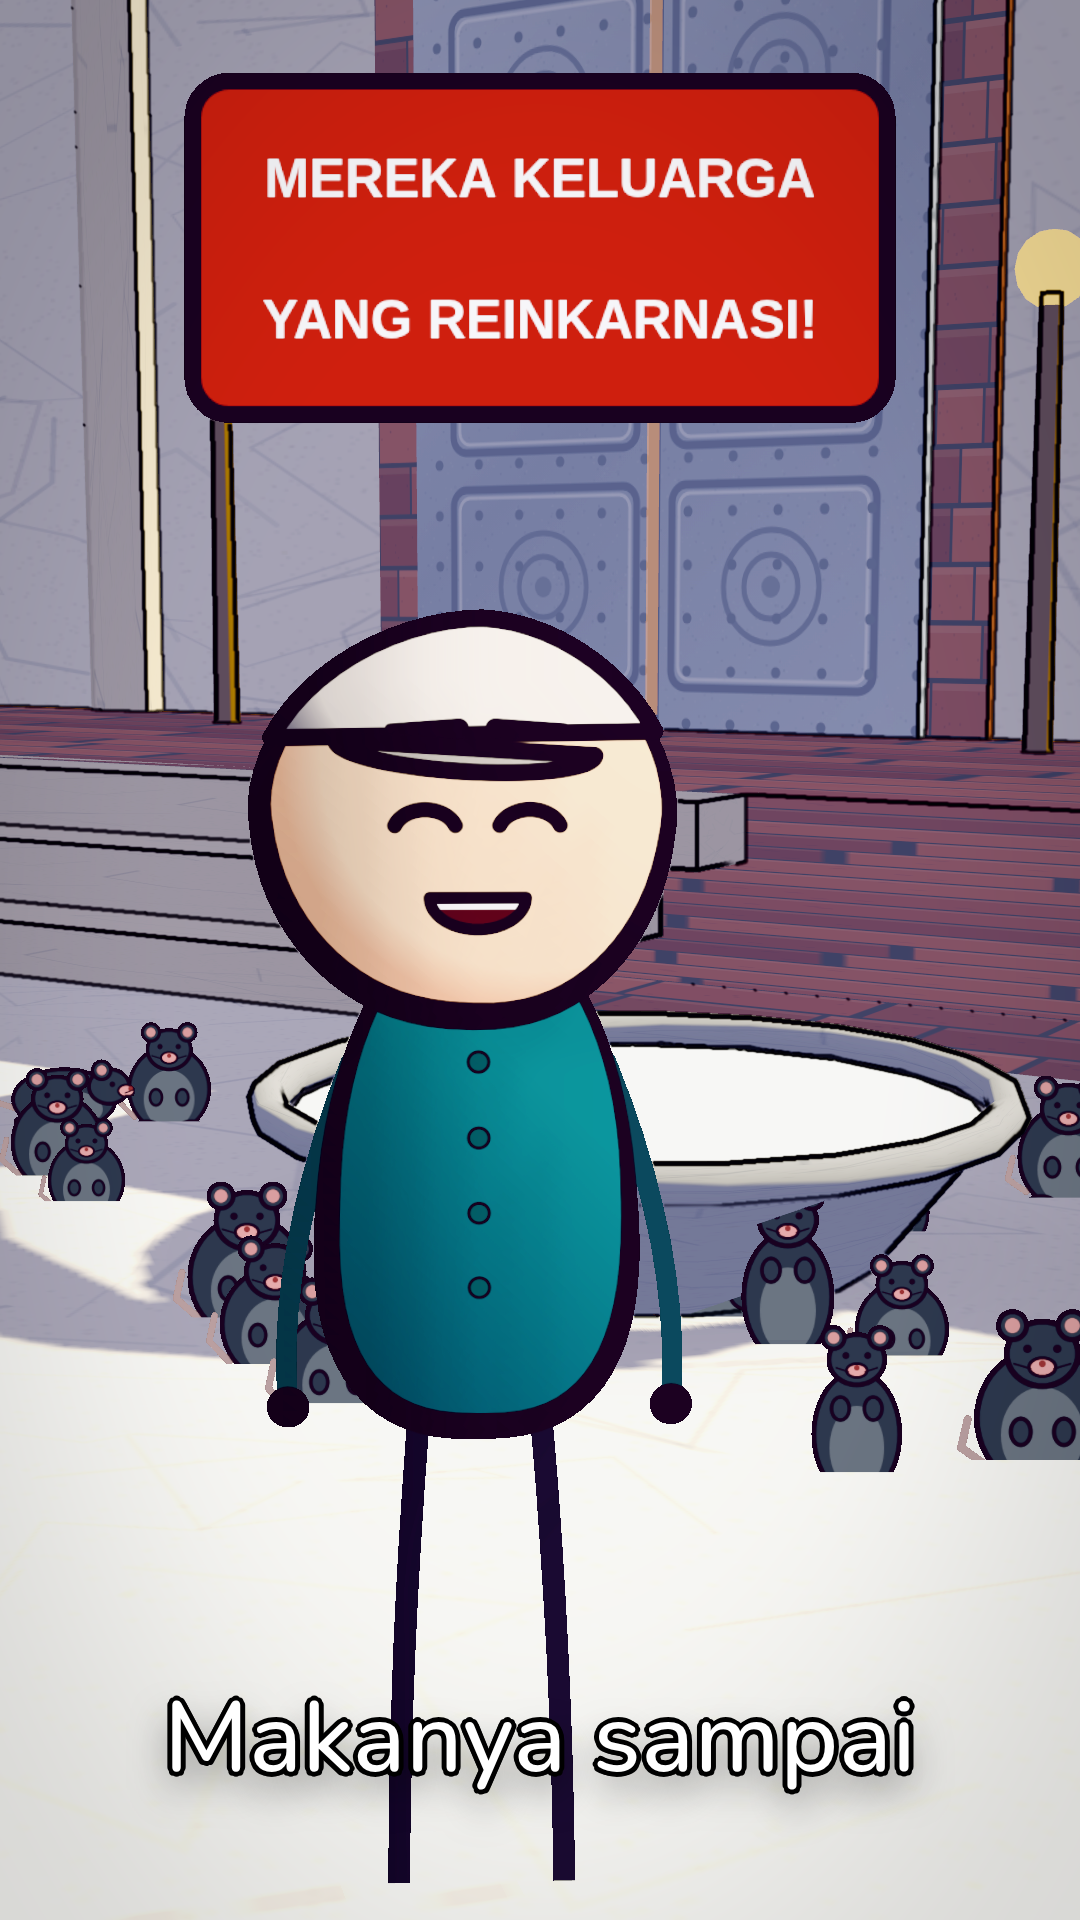
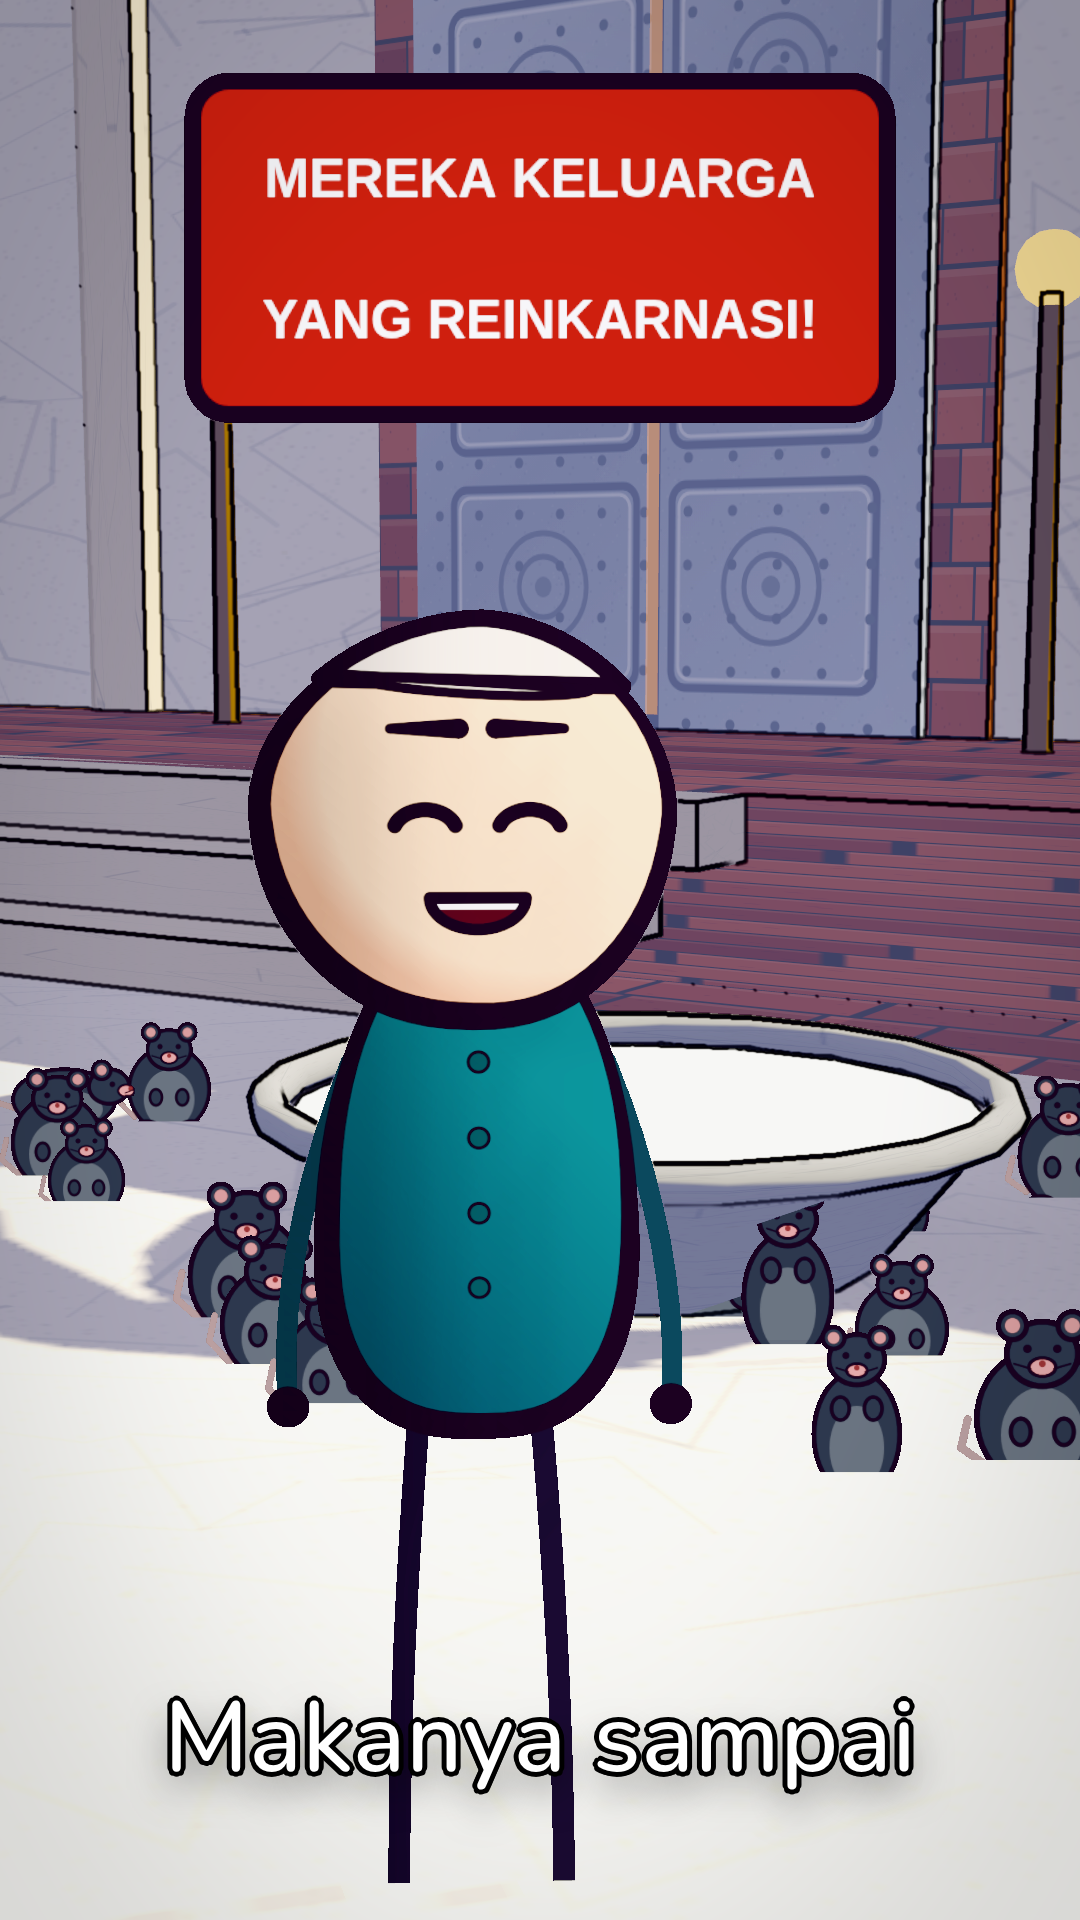
projects/kuil-tikus: sync for repo render 20261121-234418

Changed region(s): [[0.2444, 0.3438, 0.6111, 0.4062]]

diff --git a/projects/kuil-tikus/src/videos/tikus/toon.ts b/projects/kuil-tikus/src/videos/tikus/toon.ts
@@ -314,7 +314,7 @@ const faceFront = (p: Pen, cx: number, cy: number, W: number, expr: Expr, facing
     const kind = eyeKind(F.eye[(facing ? side === facing : side > 0) ? 1 : 0], lid);
     eye(p, kind, x, ey, u, side, look, skin);
     const [dI, dO] = F.brow, by = ey - (brim ? 17 : 20) * u;
-    if (kind === "shock" || kind === "shockHalf") p.arc(x, by - 6 * u, 9 * u, 3 * u, 200, 340, 4 * u);
+    if (kind === "shock" || kind === "shockHalf") p.arc(x, by - 4 * u, 9 * u, 3 * u, 200, 340, 4 * u);
     else taper(p, [x - side * 8.5 * u, by + dI * u], [x + side * 8.5 * u, by + dO * u], 5 * u, 2.5 * u);
   }
   const mx = cx + 8 * u * facing, my = cy + 20 * u;
@@ -330,7 +330,7 @@ const faceSide = (p: Pen, hx: number, hy: number, W: number, expr: Expr, lid: nu
   const kind = eyeKind(F.eye[1], lid);
   eye(p, kind, ex, ey, u, 1, 0.6, skin);
   const by = ey - (brim ? 17 : 20) * u, [dI, dO] = F.brow;
-  if (kind === "shock" || kind === "shockHalf") p.arc(ex, by - 6 * u, 9 * u, 3 * u, 200, 340, 4 * u);
+  if (kind === "shock" || kind === "shockHalf") p.arc(ex, by - 4 * u, 9 * u, 3 * u, 200, 340, 4 * u);
   else taper(p, [ex + 8 * u, by + dI * u], [ex - 7 * u, by - u + dO * u], 5 * u, 2.5 * u);
   p.stroke([[hx + 44 * u, hy + 4 * u], [hx + 47.5 * u, hy + 9 * u], [hx + 43 * u, hy + 10 * u]], 3 * u);
   mouth(p, F.mouth, hx + 33 * u, hy + 21 * u, u, 0.62);
@@ -378,7 +378,10 @@ const hatOn = (p: Pen, o: Outfit, hp: P2[], H: Blob, cx: number, hc: number, lig
       p.ell(tx, ty, 7 * u, 7 * u, "#2b7a4b", 2.5 * u); // green tuft
     }
   } else if (o.hat === "cap" || o.hat === "hair") {
-    const cut = crown + (o.hat === "cap" ? 0.3 : 0.42) * HH;
+    // hairline: the cap/hair bottom edge must stay ON TOP of the head, clearly above the brow line
+    // (brows sit 0.287 * HH below the crown; the old 0.30 / 0.42 cuts dropped the edge onto/through
+    // the brows and, with the wide peak lens, read as a black blindfold band across the forehead)
+    const cut = crown + 0.18 * HH;
     const keep = (x: number, y: number) => y < cut || (side && o.hat === "hair" && x < cx - 6 * u && y < hc + 0.42 * H.b);
     // start the arc at the first kept point after a dropped one, so the kept run is contiguous and the cut closes it
     const n = hp.length, startIdx = Math.max(0, hp.findIndex(([x, y], i) => keep(x, y) && !keep(hp[(i + n - 1) % n][0], hp[(i + n - 1) % n][1])));
@@ -394,14 +397,16 @@ const hatOn = (p: Pen, o: Outfit, hp: P2[], H: Blob, cx: number, hc: number, lig
     p.poly(arc, null, ow);
     if (o.hat === "hair") {
       const s = side ? -1 : facing || 1;
-      p.stroke([[cx + s * 10 * u, cut - 30 * u], [cx + s * 2 * u, cut - 12 * u]], 1.2 * u);
+      p.stroke([[cx + s * 8 * u, cut - 14 * u], [cx + s * 2 * u, cut - 4 * u]], 1.2 * u);
     }
     if (o.hat === "cap") {
       const deg = (a * 180) / Math.PI;
       if (side) p.poly(R([[cx + 40 * u, cut - 2 * u], [cx + 74 * u, cut + 4 * u], [cx + 40 * u, cut + 6 * u]]), shade(col, 0.8), ow);
       else {
-        const s = facing || (rnd(seed, 21) < 0.5 ? -1 : 1), [px, py] = R([[cx + s * 4 * u, cut + 1.5 * u]])[0];
-        p.ell(px, py, 32 * u, 0.06 * HH, shade(col, 0.8), ow, 0, 180, deg);
+        const s = facing || (rnd(seed, 21) < 0.5 ? -1 : 1), [px, py] = R([[cx + s * 4 * u, cut - 0.03 * HH]])[0];
+        // shallow brim crescent hugging the cap dome: its bottom is flush with the cap edge (cut),
+        // so nothing of the cap ever reaches down toward the brows
+        p.ell(px, py, 30 * u, 0.03 * HH, shade(col, 0.88), ow * 0.55, 0, 180, deg);
       }
     }
   } else if (o.hat === "tophat") {

diff --git a/projects/kuil-tikus/SCRIPT.md b/projects/kuil-tikus/SCRIPT.md
@@ -68,6 +68,13 @@ Teks FB:
 Di India, Ada Kuil yang Penghuninya 25.000 Tikus Suci! 🐀 Di Kuil Karni Mata, tikus bukan hama — mereka keluarga dewi yang lagi reinkarnasi. Lari lewat kakimu? Itu berkah! Lihat yang putih? Hoki seumur hidup! Dan yang paling ajaib: 25 ribu tikus, NOL wabah. Berani berkunjung?
 #taugaksih #faktaunik #india #kuiltikus #harleytriesadulting
 
+## PERBAIKAN (22 Nov 2026 — render ulang sebelum upload)
+
+- CACAT: rambut/topi hero ter-render sebagai PITA HITAM melintang di dahi setinggi mata (menutupi alis, terbaca seperti penutup mata/glitch) di semua shot. Sumbernya di kode karakter bersama `src/videos/tikus/toon.ts`, fungsi `hatOn()` (cabang `cap`/`hair`): garis potong topi/rambut di `crown + 0.30/0.42 * HH` jatuh tepat di/melewati garis alis (alis di 0.287 * HH dari mahkota), dan lensa "peak" topi lama (32u × 0.06 HH, rim tinta tebal) menggantung di garis alis membentuk massa hitam daun di dahi.
+- FIX di `hatOn()`: garis potong dinaikkan ke `crown + 0.18 * HH` (rambut/topi murni di atas kepala, dahi kulit utuh antara garis rambut dan alis); peak topi digambar ulang jadi sabit brim tipis (30u × 0.03 HH, fill shade 0.88, rim 0.55×) yang dasarnya rata dengan tepi topi; goresan helai rambut dipindah ke dalam wilayah rambut baru (cut−14u → cut−4u); busur alis ekspresi shock di `faceFront`/`faceSide` diturunkan 6u → 4u di atas garis alis supaya tidak pernah menyentuh garis rambut.
+- Fix yang sama diterapkan ke `~/workspace/cartoon-3d/gereja-ayam/src/videos/ayam/toon.ts` (file/fungsi yang sama) supaya episode berikutnya yang menyalin dari sana sudah bersih.
+- Audio TIDAK diubah (VO/mix lama dipakai lagi); hanya visual yang di-render ulang penuh via GitHub Actions repo-direct, lalu finalize.sh seperti biasa. Diverifikasi dari file final baru: frame 0/±500/±1000/±1340/1734 diperiksa visual satu per satu — rambut di atas kepala, mata + alis bersih di semua frame.
+
 ## CATATAN PRODUKSI
 
 - Frame 0 = perlakuan thumbnail klikbait: visual paling ekstrem (karpet tikus mengelilingi kaki hero) mengisi frame, ekspresi SHOCK maksimal, teks klaim raksasa maks 3 kata per baris ("25.000 TIKUS / SUCI?!") — terbaca di ukuran thumbnail; teks layar + VO baris 1 menghantam titik kaget yang sama di momen yang sama.
